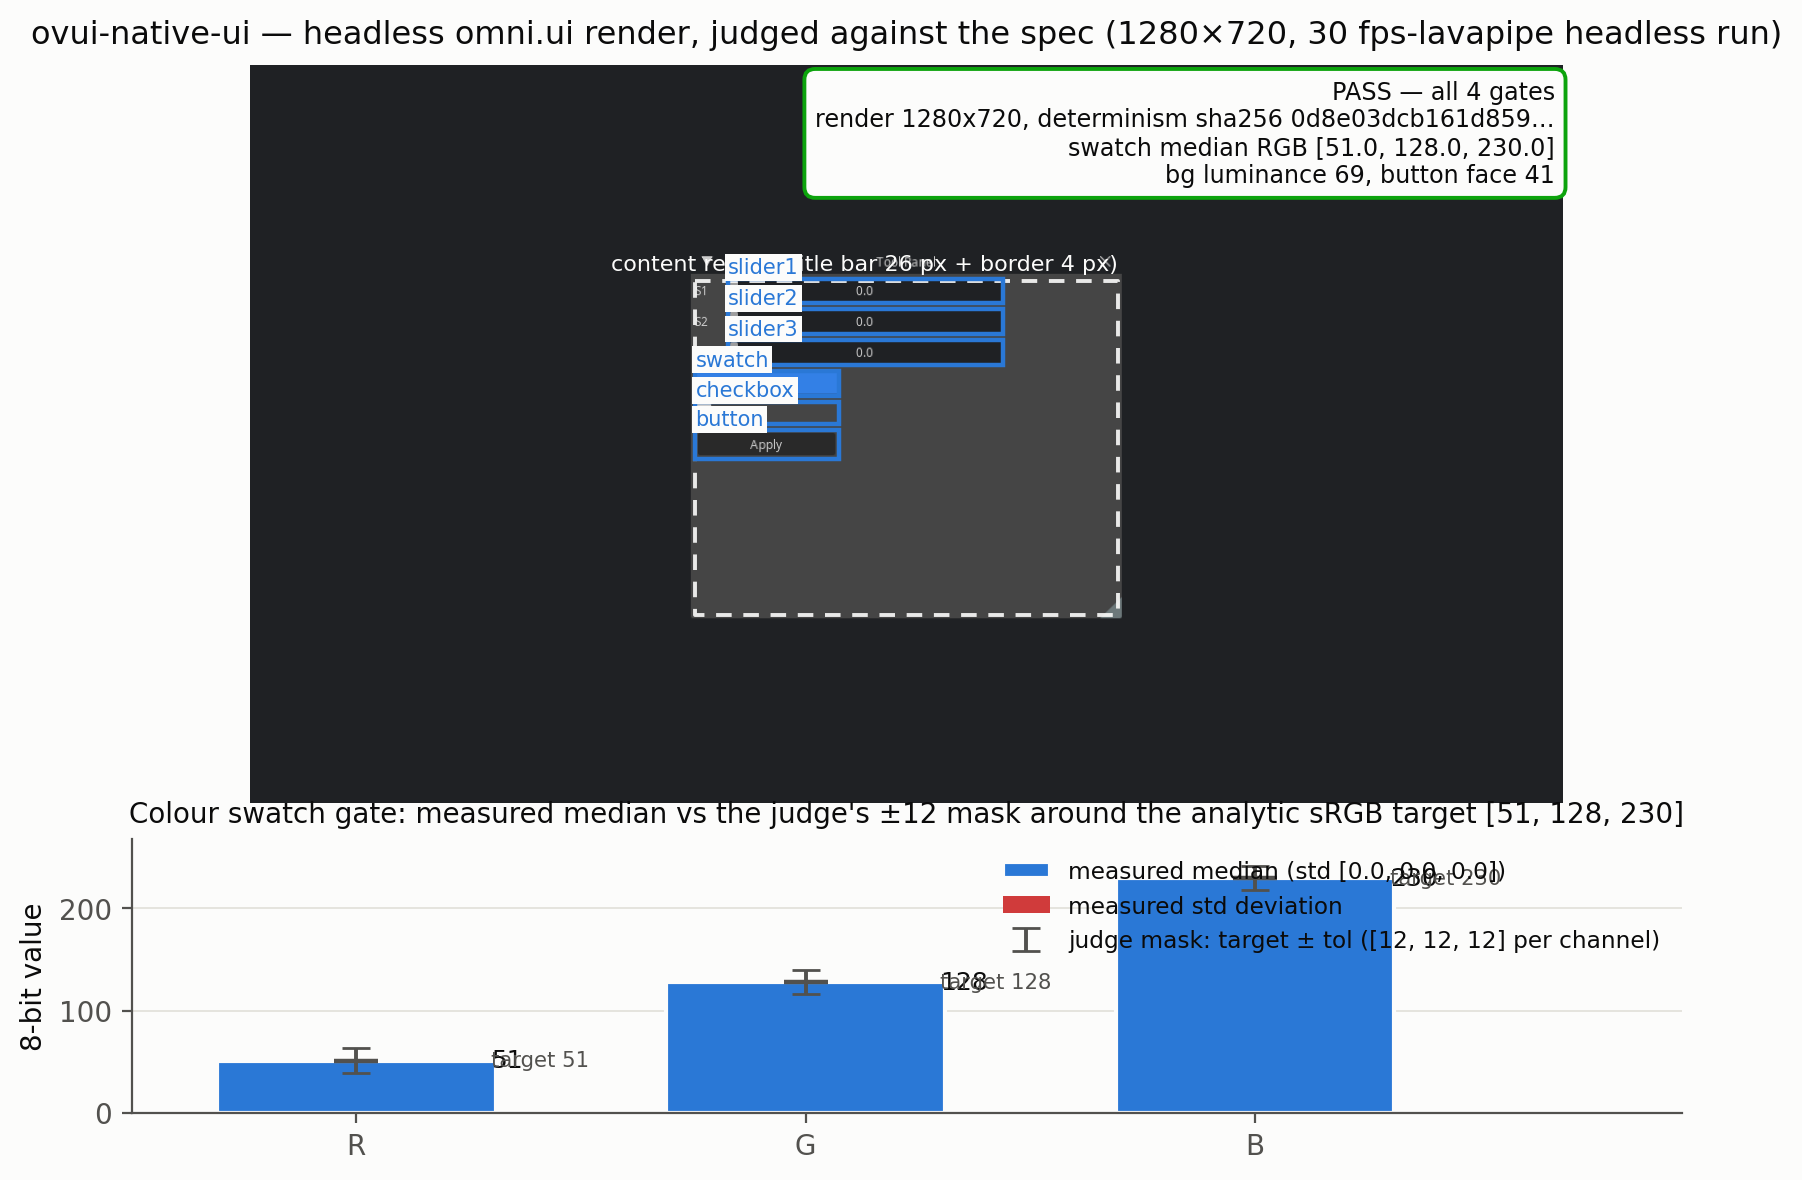
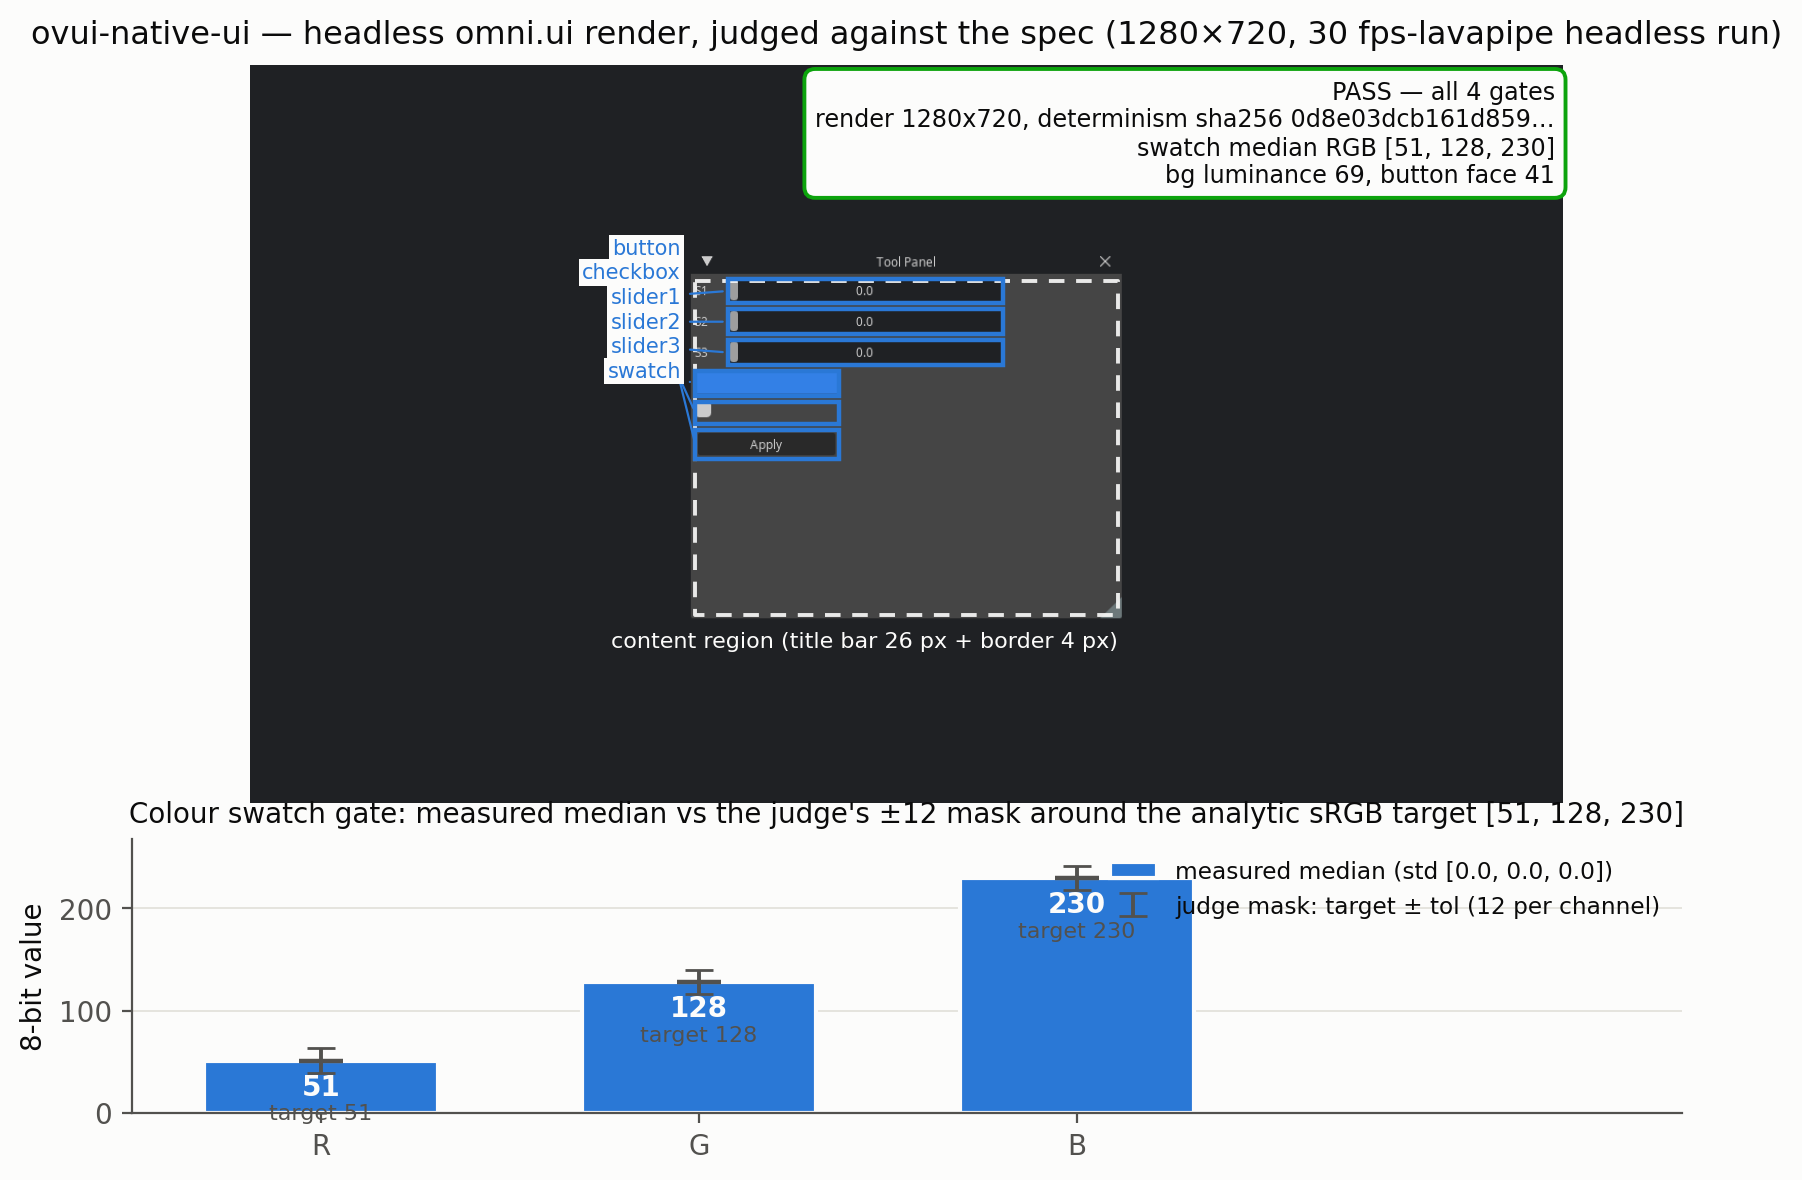
feat(cookbook): ovui-native-ui media result/loop figures from real judge data

diff --git a/cookbook/ovui-native-ui/media/make_figures.py b/cookbook/ovui-native-ui/media/make_figures.py
@@ -95,18 +95,25 @@ def draw_render_overlay(ax, show_bboxes=True, pass_stamp=True,
         y1 = win["position_y"] + win["height"] - 4
         ax.plot([x0, x1, x1, x0, x0], [y0, y0, y1, y1, y0],
                 color=SURFACE, lw=1.4, ls=(0, (4, 3)), alpha=0.9)
-        ax.text(x1, y0 - 10, "content region (title bar 26 px + border 4 px)",
-                ha="right", fontsize=8, color=SURFACE)
+        ax.text(x1, y1 + 16, "content region (title bar 26 px + border 4 px)",
+                ha="right", va="top", fontsize=8, color=SURFACE)
 
-        for name, f in facts.items():
-            if name in ("window", "_ref_names"):
-                continue
+        # label targets staggered to the left of the window; measured
+        # widgets sit in two x-columns, so labels pick the near column edge
+        names = [n for n in facts if n not in ("window", "_ref_names")]
+        for i, name in enumerate(names):
+            f = facts[name]
             x, y = f["screen_position_x"], f["screen_position_y"]
             w, h = f["computed_width"], f["computed_height"]
             ax.add_patch(plt.Rectangle(
                 (x, y), w, h, fill=False, ec=S1, lw=1.6, zorder=4))
-            ax.text(x, y - 5, name, ha="left", fontsize=7.5, color=S1,
-                    bbox=dict(fc=SURFACE, ec="none", pad=1.2), zorder=5)
+            cy = y + h / 2
+            ly = y0 - 32 + i * 24
+            ax.annotate(name, xy=(x, cy), xytext=(x0 - 14, ly),
+                        fontsize=7.5, color=S1, ha="right", va="center",
+                        zorder=5,
+                        bbox=dict(fc=SURFACE, ec="none", pad=1.2),
+                        arrowprops=dict(arrowstyle="-", color=S1, lw=0.8))
 
     if pass_stamp:
         det = [g for g in good["gates"] if g["gate"] == "determinism"][0]
@@ -114,7 +121,7 @@ def draw_render_overlay(ax, show_bboxes=True, pass_stamp=True,
         lines = [
             "PASS — all 4 gates",
             f"render 1280x720, determinism sha256 {det['sha256']}…",
-            f"swatch median RGB {pix['swatch_median']}",
+            f"swatch median RGB {[round(v) for v in pix['swatch_median']]}",
             f"bg luminance {pix['bg_lum']:.0f}, button face {pix['button_face_lum']:.0f}",
         ]
         ax.text(1272, 14, "\n".join(lines), ha="right", va="top",
@@ -155,23 +162,25 @@ def result_png():
     target = ref["swatch_rgb"]
     ax.bar(xs, med, width=0.62, color=S1, edgecolor=SURFACE, lw=1.5,
            label=f"measured median (std {list(std)})")
-    ax.bar(xs, std, width=0.62, bottom=med, color=CRIT, lw=0,
-           label="measured std deviation")
+    if any(s > 0 for s in std):
+        ax.bar(xs, std, width=0.62, bottom=med, color=CRIT, lw=0)
     # the ±tol band the judge allows around the analytic target
     ax.errorbar(xs, target, yerr=tol, fmt="none", ecolor=TEXT2,
                 elinewidth=1.4, capsize=5,
-                label=f"judge mask: target ± tol ({tol} per channel)")
+                label=f"judge mask: target ± tol "
+                      f"({list(tol)[0]} per channel)")
     ax.scatter(xs, target, marker="_", s=260, color=TEXT2, zorder=5,
                linewidths=1.6)
     for x, m, t in zip(xs, med, target):
-        ax.text(x + 0.30, m, f"{m:.0f}", va="center", fontsize=9, color=TEXT)
-        ax.text(x + 0.30, t, f"target {t:.0f}", va="center", fontsize=7.6,
-                color=TEXT2)
+        ax.text(x, min(m - 12, 240), f"{m:.0f}", ha="center", va="top",
+                fontsize=10, color=SURFACE, fontweight="bold", zorder=6)
+        ax.text(x, t - list(tol)[0] - 30, f"target {t:.0f}", ha="center",
+                va="top", fontsize=8, color=TEXT2)
     ax.set_xticks(xs)
     ax.set_xticklabels(chans, fontsize=10)
     ax.set_ylabel("8-bit value")
     ax.set_ylim(0, 268)
-    ax.set_xlim(-0.5, 2.95)
+    ax.set_xlim(-0.5, 3.6)
     ax.grid(True, axis="y", color=GRID, lw=0.6)
     ax.set_axisbelow(True)
     ax.legend(loc="upper right", fontsize=8.4, frameon=False)
@@ -248,6 +257,9 @@ def loop_png():
 
     # --- bottom: self-test kill strip -------------------------------------
     ax = fig.add_subplot(gs[1])
+    # the failed gates per mutant are named in the top panel's replay
+    # (one per gate class) -- a per-bar gate list would collide at this
+    # bar pitch
     ax.set_title(f"Self-test kill rate: {rate}  "
                  "(requirement ≥ 90%)", fontsize=11)
     ax.bar([0], [1], width=0.72, color=GOOD, edgecolor=SURFACE, lw=2)
@@ -255,16 +267,13 @@ def loop_png():
             color=TEXT2)
     for i, name in enumerate(MUTANT_ORDER, 1):
         v = mutants[name]
-        crashed = v.get("pass") is None
-        failed_txt = "build error" if crashed else \
-            ", ".join(g["gate"] for g in v["gates"] if not g["ok"])
-        # wrap the gate list: bars are only ~0.7 apart, a bare
-        # "widget_tree, pixels" runs into its neighbours
-        ax.text(i, -0.42, "\n".join(textwrap.wrap(failed_txt, 14)),
-                ha="center", va="top", fontsize=7,
-                color=CRIT, fontweight="bold")
+        ax.bar([i], [1], width=0.72, color=CRIT, edgecolor=SURFACE, lw=2)
+        ax.text(i, 0.5, "killed", ha="center", fontsize=7.4,
+                color=SURFACE, rotation=90)
+        ax.text(i, -0.13, MUTANT_LABELS[name].replace(" ", "\n", 1),
+                ha="center", fontsize=6.8, color=TEXT2)
     ax.set_xlim(-0.6, len(MUTANT_ORDER) + 0.6)
-    ax.set_ylim(-1.35, 1.3)
+    ax.set_ylim(-0.62, 1.3)
     ax.set_yticks([])
     ax.set_xticks([])
     for s in ("top", "right", "left"):

diff --git a/cookbook/ovui-native-ui/media/make_data.py b/cookbook/ovui-native-ui/media/make_data.py
@@ -69,6 +69,13 @@ def stable_verdict(path):
     return json.dumps(v, indent=2, sort_keys=True) + "\n"
 
 
+def scrub(text):
+    """Replace host-specific paths (this repo is public) so committed data
+    carries no builder-machine paths and is stable across regenerations."""
+    text = text.replace(str(DEMO), "<demo>")
+    return re.sub(r"/tmp/[^\s:\"'/]+", "<scratch>", text)
+
+
 def main():
     DATA.mkdir(parents=True, exist_ok=True)
     work = Path(tempfile.mkdtemp(prefix="ovui-media."))
@@ -101,10 +108,10 @@ def main():
                  str(mut_dir / f"mut_{name}.py"), "--json", str(out)],
                 cwd=DEMO, env=ENV, capture_output=True, text=True)
             if out.exists():
-                v = json.loads(stable_verdict(out))
+                v = json.loads(scrub(stable_verdict(out)))
             else:   # the run itself failed before a verdict was written
                 v = {"pass": None,
-                     "error": (r.stdout + r.stderr)[-300:]}
+                     "error": scrub((r.stdout + r.stderr)[-300:])}
             v["exit"] = r.returncode
             mutants[name] = v
         (DATA / "mutants.json").write_text(
